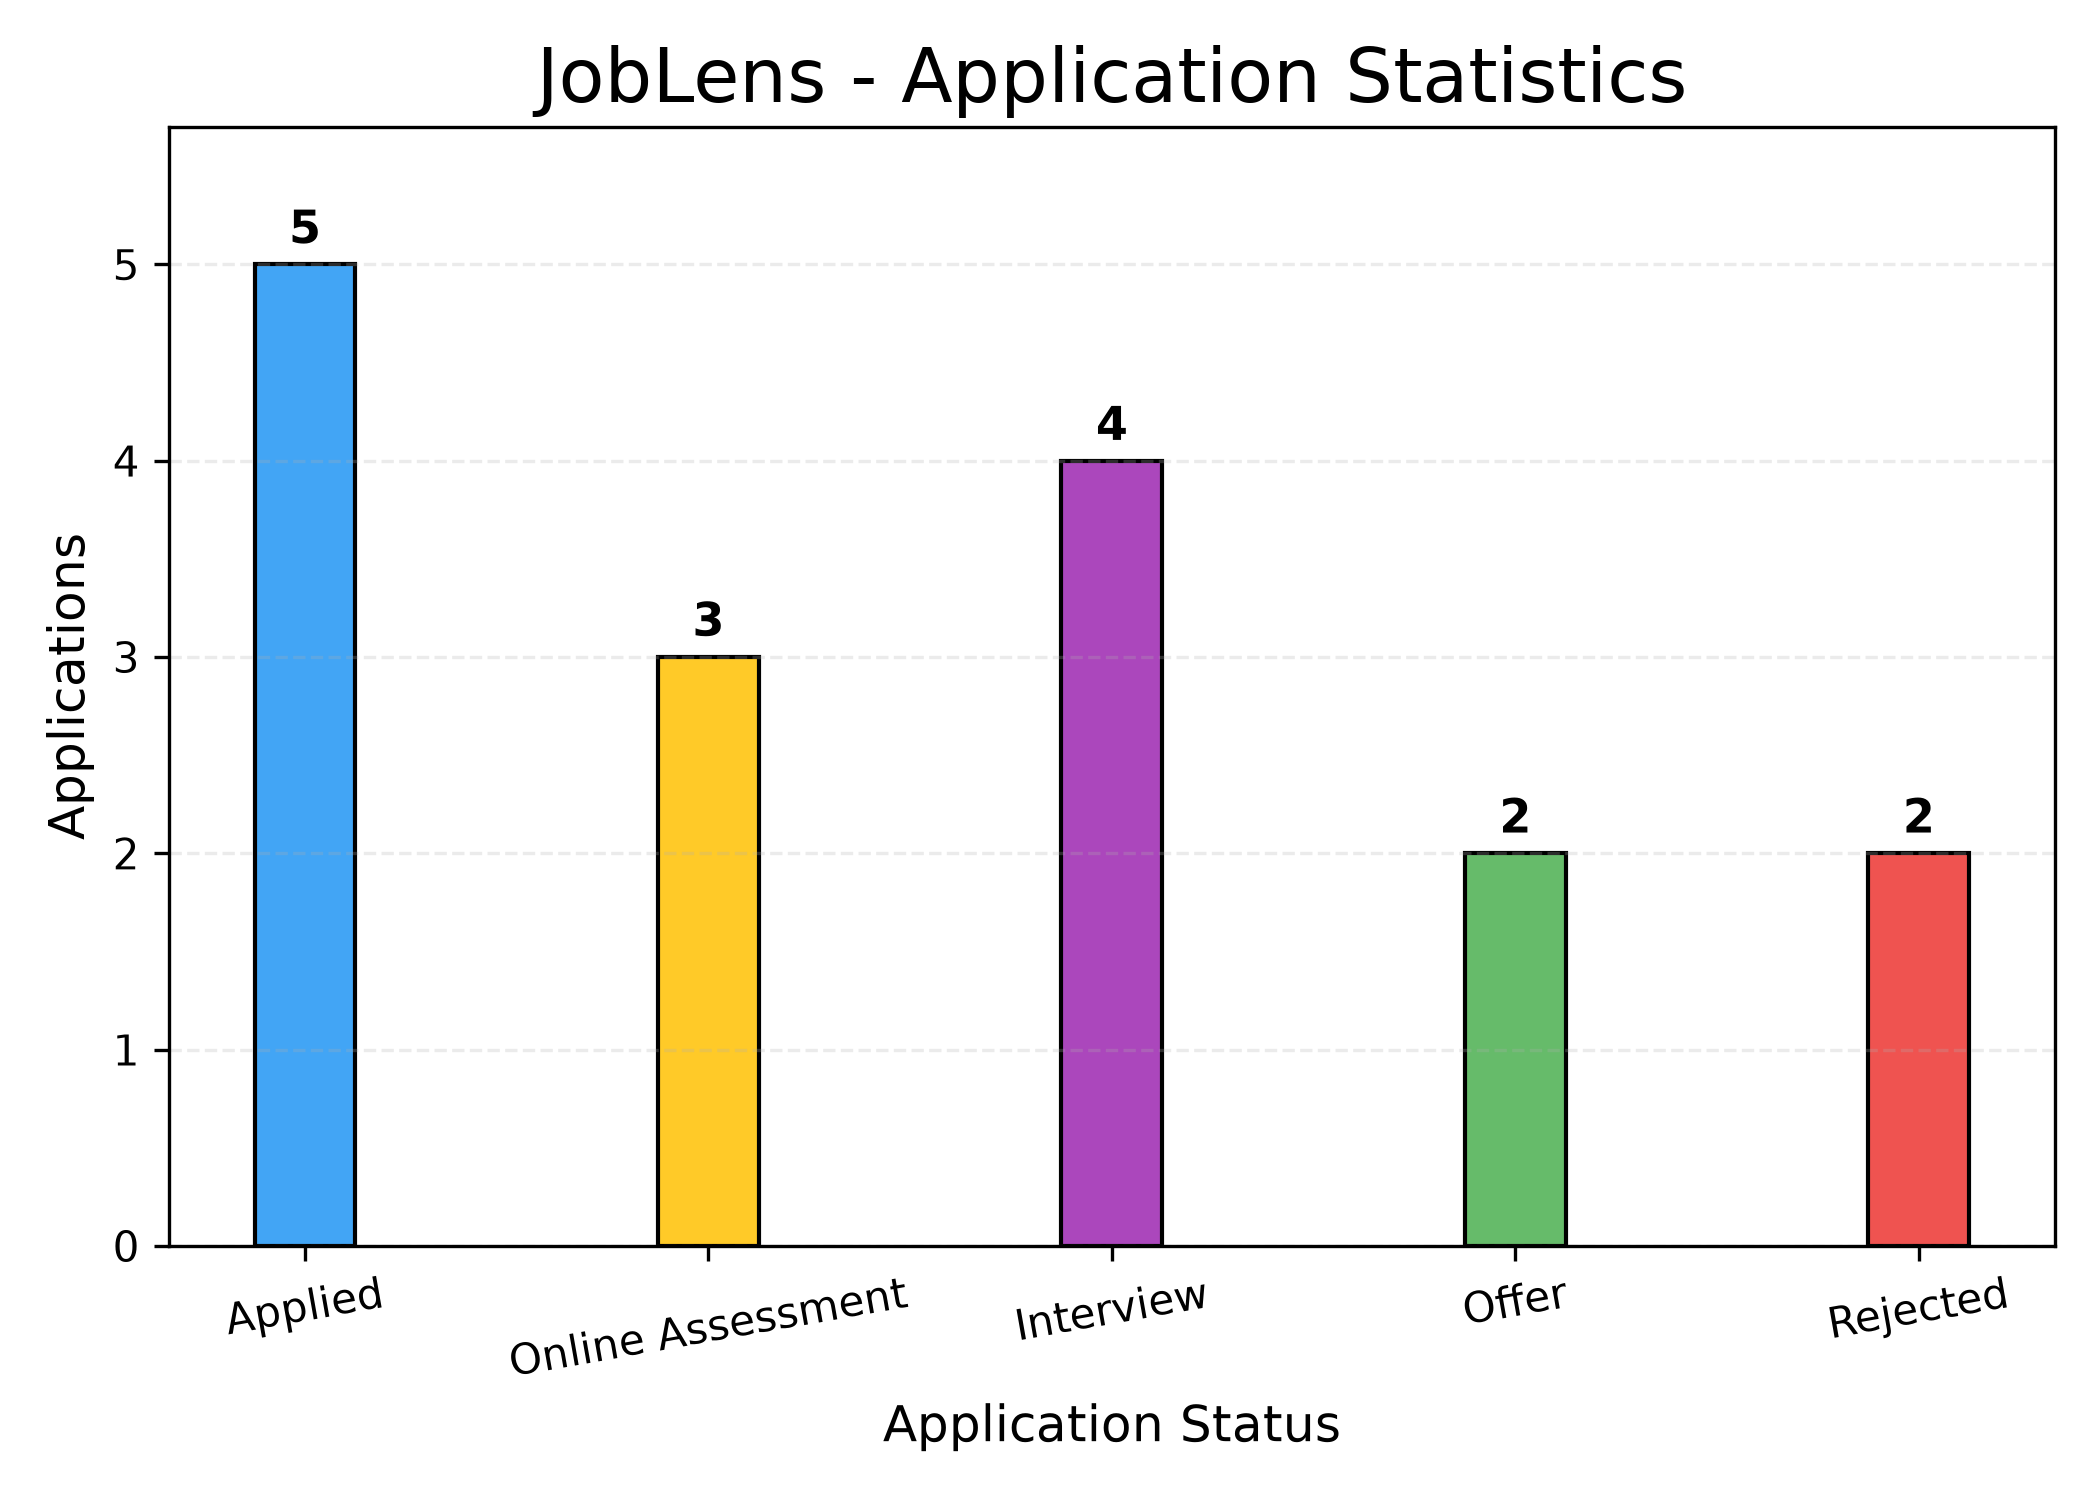
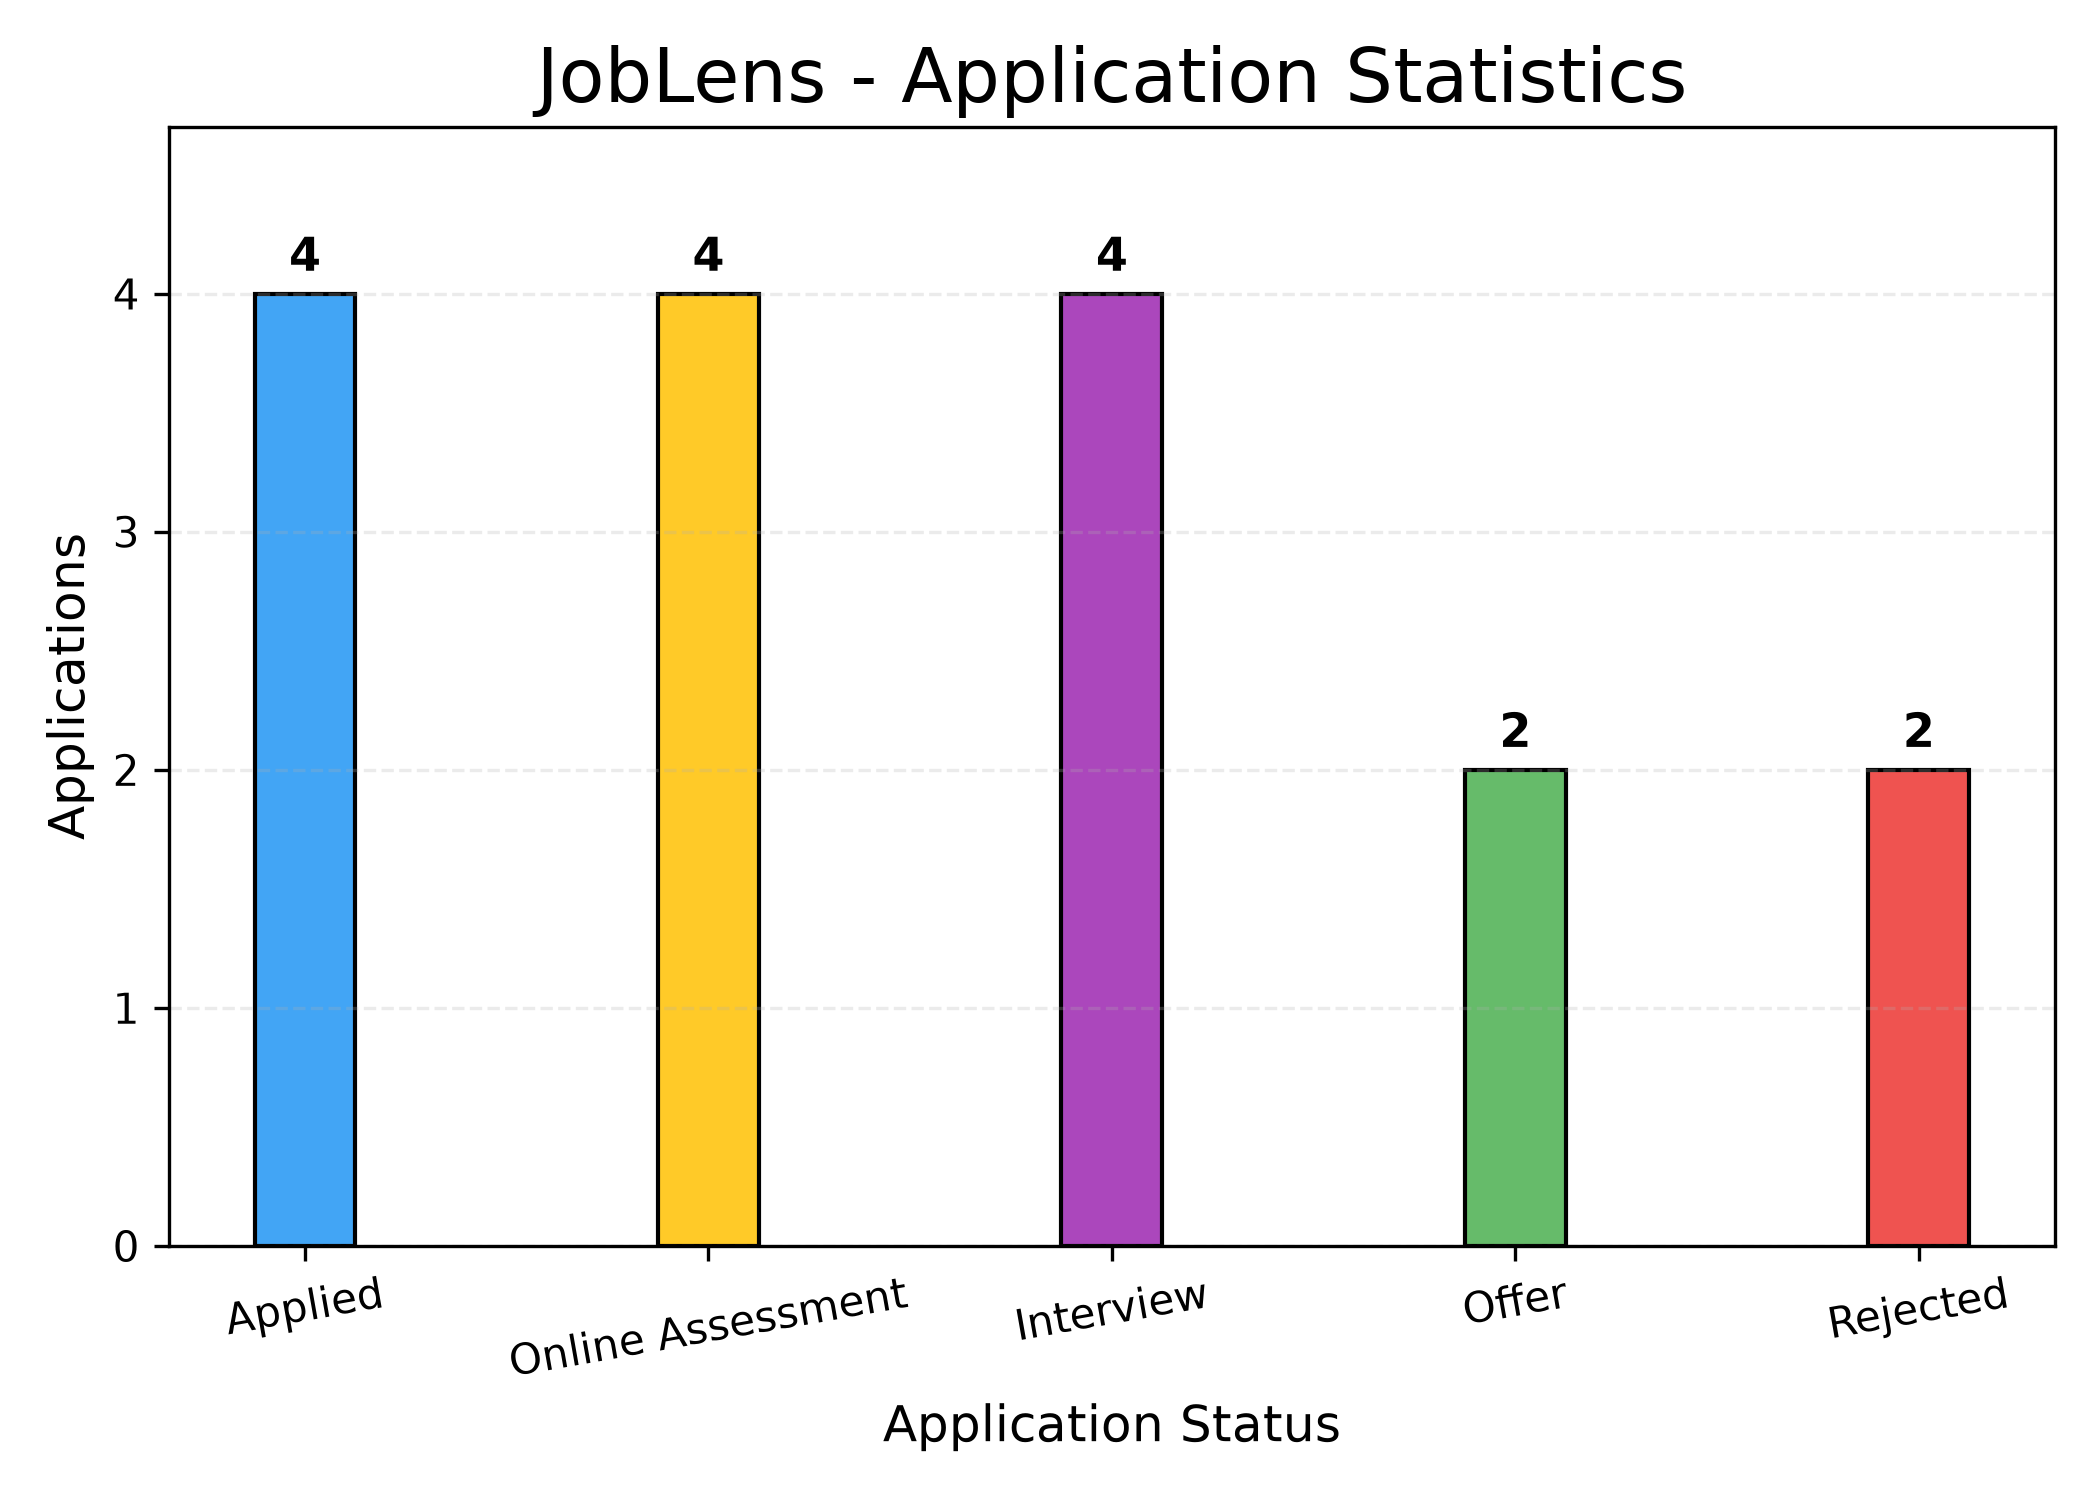
Add Rich UI, fix search/status bugs, update README with screenshots and v2 notes

diff --git a/project.py b/project.py
@@ -12,7 +12,7 @@ from ui import (
     print_section_header, print_status_select,
     print_search_menu, print_statistics_menu,
     print_statistics_dashboard,
-    STATUS_STYLE, STATUS_ICONS as UI_STATUS_ICONS,
+    STATUS_STYLE,
 )
 
 
@@ -239,6 +239,7 @@ def update_status():
     for app in applications:
         icon = STATUS_ICONS.get(app.status)
         if update == app.id:
+            found = True
             style = STATUS_STYLE.get(app.status, "white")
             print_info(f"Current Status: [{style}]{icon} {app.status}[/]")
 
@@ -324,10 +325,10 @@ def search_application():
         if choice == "3":
             print_section_header("Search by Location")
             
-            search_location = prompt("Enter Role").lower()
+            search_location = prompt("Enter Location").lower()
             match = False
             for app in applications:
-                if app.role.lower().startswith(search_location):
+                if app.location.lower().startswith(search_location):
                     match = True
                     print_app_detail(app)
             if not match:
@@ -336,10 +337,10 @@ def search_application():
         if choice == "4":
             print_section_header("Search by Status")
             
-            search_status = prompt("Enter Role").lower()
+            search_status = prompt("Enter Status").lower()
             match = False
             for app in applications:
-                if app.role.lower().startswith(search_status):
+                if app.status.lower().startswith(search_status):
                     match = True
                     print_app_detail(app)
             if not match:

diff --git a/README.md b/README.md
@@ -2,6 +2,7 @@
 
 #### Video Demo: https://youtu.be/Oa-S7ZLmMcs
 <!-- TODO: Re-record demo video to show the updated Rich terminal UI -->
+**v2** — Enhanced with a Rich-powered terminal UI after course submission.
 
 #### Description
 
@@ -10,6 +11,21 @@ JobLens is a command-line job application tracker built with Python as my final 
 I created this project because keeping track of my own job applications, interview stages, and job links became difficult. JobLens allows users to store and manage job applications, search existing records, view application statistics, and compare their resume with a job description using a simple resume matcher.
 
 My goal was to build a practical application that combines object-oriented programming, JSON file handling, testing with `pytest`, and modular Python design into a project that I can continue using and improving even after completing CS50P.
+
+
+## Screenshots
+
+![Main menu](screenshots/main-menu.png)
+The main menu and welcome screen.
+
+![View applications](screenshots/view-applications.png)
+Viewing saved applications in a color-coded table.
+
+![Statistics](screenshots/statistics.png)
+Terminal statistics dashboard.
+
+![Resume matcher](screenshots/resume-matcher.png)
+Resume-to-job-description match report.
 
 
 ## Features
@@ -172,9 +188,16 @@ Although JobLens is complete, there are several possible enhancements, namely a 
 * Database support using SQLite.
 * A graphical user interface.
 
-## Recent Fixes
+## Updates
 
-* Search by Location and Search by Status now correctly filter on their respective fields. Previously, both were matching against the role field by mistake.
+**v2** — Upgraded the terminal interface using the Rich library
+(bordered panels, tables, color-coded statuses, styled prompts).
+Presentation only — all original logic, data structures, and menu
+behavior are unchanged. Also fixed two minor bugs found during this
+pass: search by location/status was incorrectly matching on role,
+and the resume matcher only read the last page of multi-page PDFs.
+
+**v1** — Original CS50P submission.
 
 ## What I Learned
 
